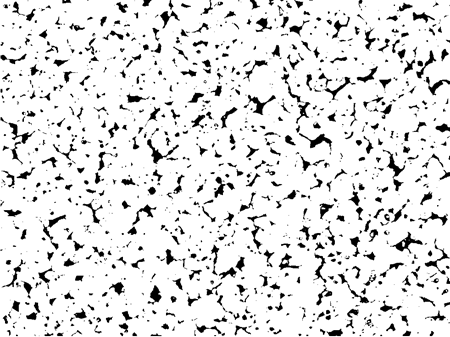
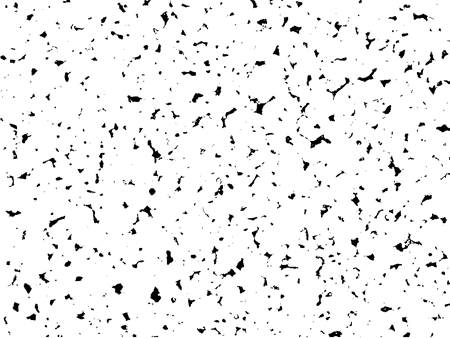
add more options as image

diff --git a/Simulator4.html b/Simulator4.html
@@ -33,7 +33,7 @@
                 <img src="s4img/Original.jpg" alt="Original Image" class="original-image" />
             </div>
             <div class="col-md-4">
-               <p>Click left for previous image and click on right for next image . for select click on image</p>
+               <p>Click left for reduce contrast and click on right for Increase Contrast. for select click on image</p>
                 <!-- Slider start  -->
                 <div id="carouselExampleControls" class="carousel slide carousel-fade" data-bs-ride="false">
                     <div class="carousel-inner">
@@ -41,39 +41,55 @@
                             <img src="s4img/OptionA.png" class="d-block w-100 option-img" alt="Option A"
                                 data-option="A">
                             <div class="image-values">
-                                <p>Threshold pixel: 60</p>
-                                <p>Fraction: 11.0%</p>
+                                <p>Threshold pixel: 40</p>
+                                <p>Fraction: 5.4%</p>
                             </div>
                         </div>
                         <div class="carousel-item">
                             <img src="s4img/OptionB.png" class="d-block w-100 option-img" alt="Option B"
                                 data-option="B">
                                 <div class="image-values">
-                                    <p>Threshold pixel: 80</p>
-                                    <p>Fraction: 18.6%</p>
+                                    <p>Threshold pixel: 60</p>
+                                    <p>Fraction: 11.0%</p>
                                 </div>
                         </div>
                         <div class="carousel-item">
                             <img src="s4img/OptionC.png" class="d-block w-100 option-img" alt="Option C"
                                 data-option="C">
                                 <div class="image-values">
-                                    <p>Threshold pixel: 100</p>
-                                    <p>Fraction: 28.5%</p>
+                                    <p>Threshold pixel: 80</p>
+                                    <p>Fraction: 18.6%</p>
                                 </div>
                         </div>
                         <div class="carousel-item">
                             <img src="s4img/OptionD.png" class="d-block w-100 option-img" alt="Option D"
                                 data-option="D">
                                 <div class="image-values">
+                                    <p>Threshold pixel: 100</p>
+                                    <p>Fraction: 28.5%</p>
+                                </div>
+                        </div>
+                        <div class="carousel-item">
+                            <img src="s4img/OptionE.png" class="d-block w-100 option-img" alt="Option E"
+                                data-option="D">
+                                <div class="image-values">
                                     <p>Threshold pixel: 120</p>
                                     <p>Fraction: 45.7%</p>
+                                </div>
+                        </div>
+                        <div class="carousel-item">
+                            <img src="s4img/OptionF.png" class="d-block w-100 option-img" alt="Option F"
+                                data-option="D">
+                                <div class="image-values">
+                                    <p>Threshold pixel: 140</p>
+                                    <p>Fraction: 76.6%</p>
                                 </div>
                         </div>
                     </div>
                     <button class="carousel-control-prev" type="button" data-bs-target="#carouselExampleControls"
                         data-bs-slide="prev">
                         <span class="carousel-control-prev-icon" aria-hidden="true"></span>
-                        <span class="visually-hidden">Previous</span>
+                        <span class="">Previous</span>
                     </button>
                     <button class="carousel-control-next" type="button" data-bs-target="#carouselExampleControls"
                         data-bs-slide="next">
@@ -102,7 +118,7 @@
                 carousel.to(selectedOption.charCodeAt(0) - 'A'.charCodeAt(0));
 
                 // Check if selected option is correct and show feedback
-                if (selectedOption === 'B') {
+                if (selectedOption === 'C') {
                     feedbackElement.textContent = 'You are correct!';
                     feedbackElement.style.color = 'green';
                 } else {
